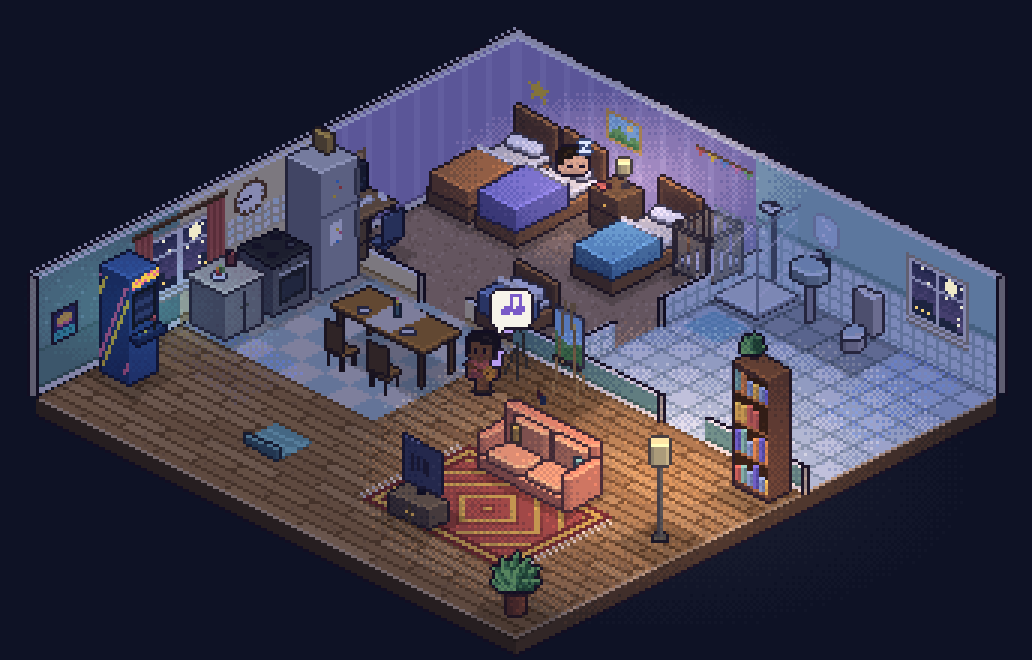
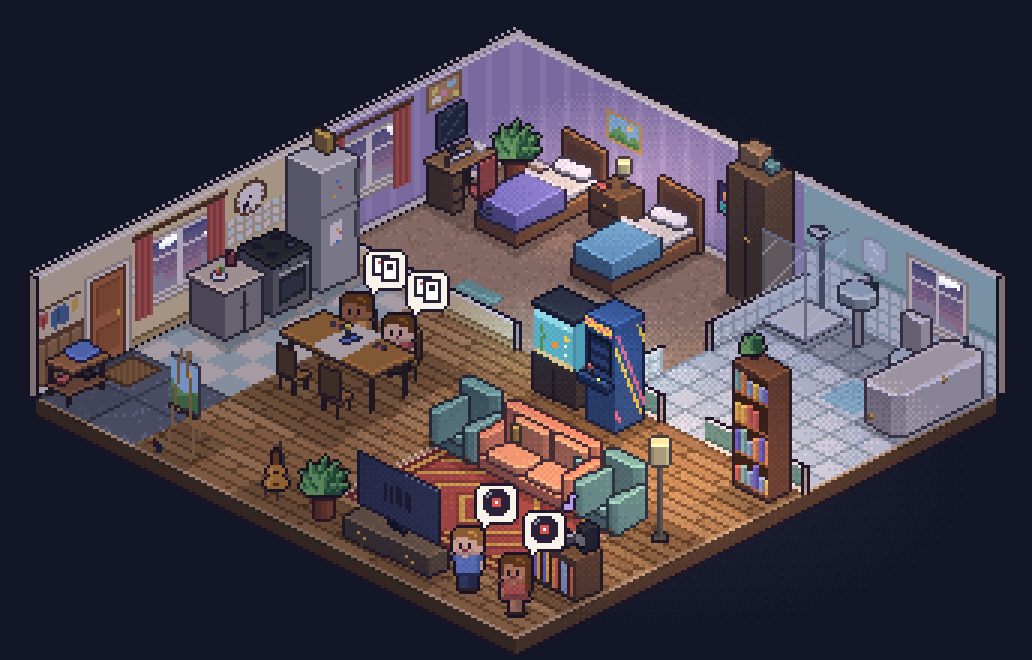
Retake README screenshot for v12

diff --git a/README.md b/README.md
@@ -8,7 +8,7 @@ you play.
 
 **[Watch it in your browser →](https://rstibal.github.io/little-life/)**
 
-![One Sim asleep, the other playing guitar, in the pixel-art flat on an evening with the lamps on](screenshot.png)
+![Early evening in the pixel-art flat: a resident and a visiting friend playing cards at the dining table, two more dancing by the record player](screenshot.png)
 
 ## Running it
 
